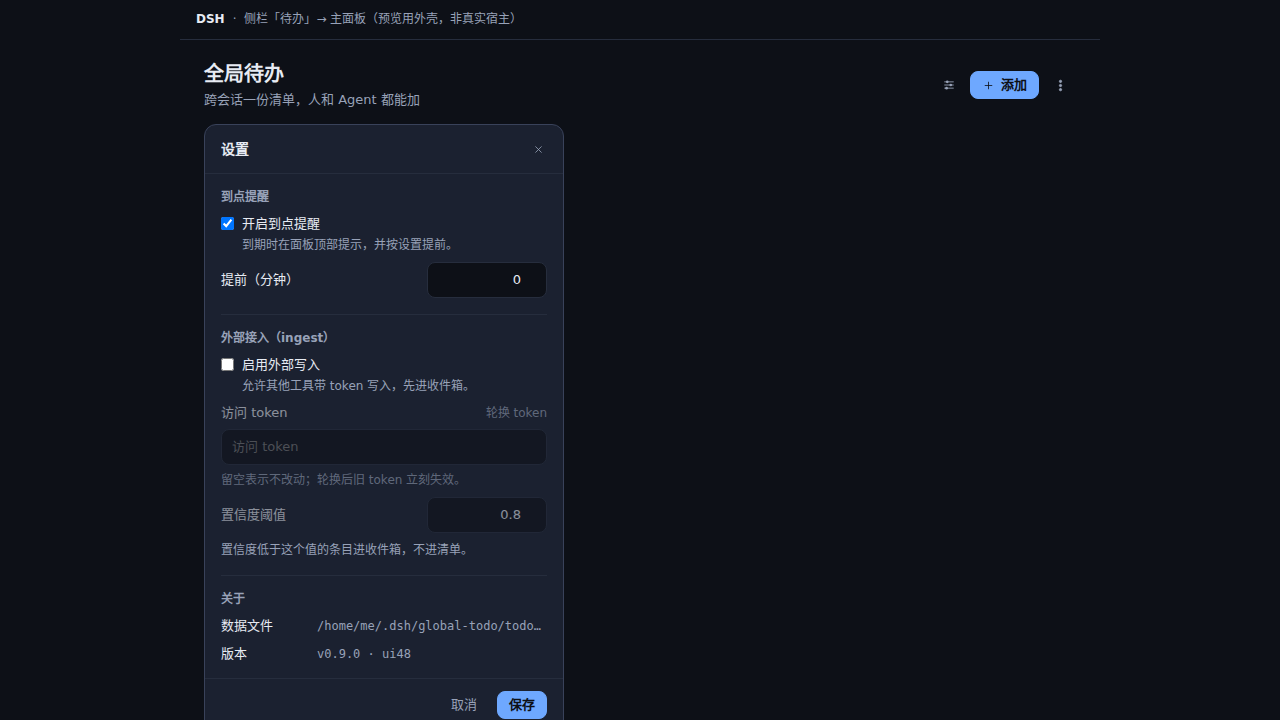
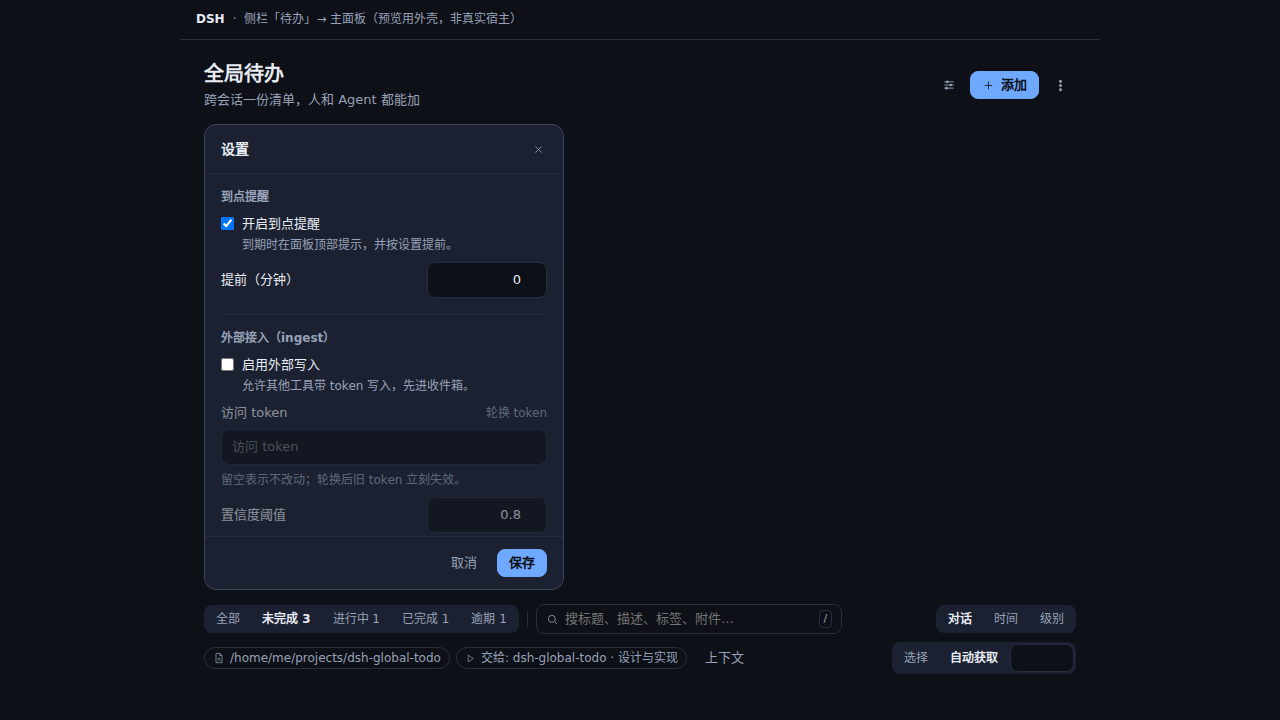
fix: the list could not scroll
gt-inner needed min-height:0 (flex default kept the column taller than the
slot) and gt-root now clips so the list is the only scroll owner.

Changed region(s): [[0.1562, 0.7333, 0.5625, 1.0], [0.6875, 0.825, 0.8438, 0.9472]]

diff --git a/lib/client.js b/lib/client.js
@@ -50,7 +50,7 @@ window.__ModuleLoader__.load({
      * different mechanisms (restart vs. hot reload), so "which one am I looking
      * at" needs an answer that the bundle itself carries.
      */
-    const UI_REV = 'ui48'
+    const UI_REV = 'ui49'
     /** Last language resolved for the shell; module-level so a fetch failure can be worded too. */
     let activeLang = 'zh'
 
@@ -999,8 +999,14 @@ window.__ModuleLoader__.load({
 
     const CSS = `
 .gt-root { position: relative; display: flex; flex-direction: column; height: 100%; min-height: 0; min-width: 0;
+  /* The panel clips; the list inside it scrolls. Without this the column grew past the
+     slot and the host's own overflow hid the rest of the list — the "cannot scroll" bug. */
+  overflow: hidden;
   color: var(--dsw-alias-label-primary); font-size: 13px; line-height: 1.5; }
 .gt-inner { display: flex; flex-direction: column; gap: 14px; width: 100%; max-width: 1040px; min-width: 0;
+  /* min-height is the load-bearing line: a flex item defaults to min-height:auto, so the
+     column refused to shrink below its content and .gt-groups never got a scroll range. */
+  min-height: 0;
   box-sizing: border-box; margin: 0 auto; padding: 20px 24px 32px; flex: 1; }
 .gt-head { display: flex; align-items: center; gap: 12px; flex-wrap: wrap; }
 .gt-head-actions { display: flex; align-items: center; gap: 6px; margin-left: auto; flex: 0 0 auto; }

diff --git a/lib/index.js b/lib/index.js
@@ -36,7 +36,7 @@ import { createStore, resolveStorePath } from './store.js'
 import { createTools } from './tools.js'
 
 /** Must equal `package.json`'s version; `npm run check` enforces that. */
-export const VERSION = '0.9.0'
+export const VERSION = '0.9.1'
 
 /** Plugin id. Also the Loader row id in `cordis.patch.yml`. */
 export const name = 'dsh-global-todo'

diff --git a/CHANGELOG.md b/CHANGELOG.md
@@ -1,3 +1,17 @@
+## [0.9.1] — 2026-10-20
+
+The list could not scroll. One missing declaration, and the panel never owned its own height.
+
+- **`.gt-inner` needed `min-height: 0`.** A flex item defaults to `min-height: auto`, so the
+  column refused to shrink below its content: with a long list it grew to 2236px inside a 680px
+  slot, `.gt-groups` never got a scroll range, and the host's own overflow clipped everything
+  below the fold — measured `scrollTop 0 → 0` after a wheel, i.e. nothing moved.
+- **`.gt-root` now clips its own overflow**, so the header and toolbar stay put and the list is the
+  only scroll area (measured after the fix: `.gt-groups` 480px viewport over a 2036px list, wheel
+  moves 0 → 800).
+- **`check:render` asserts the contract**: panel clips, column may shrink, list scrolls. This class
+  of bug is invisible to the server-rendered preview screenshot, which is why it shipped.
+
 ## [0.9.0] — 2026-10-20
 
 Competitive ground: the hand-off now has a return path, capture carries its source, and the
